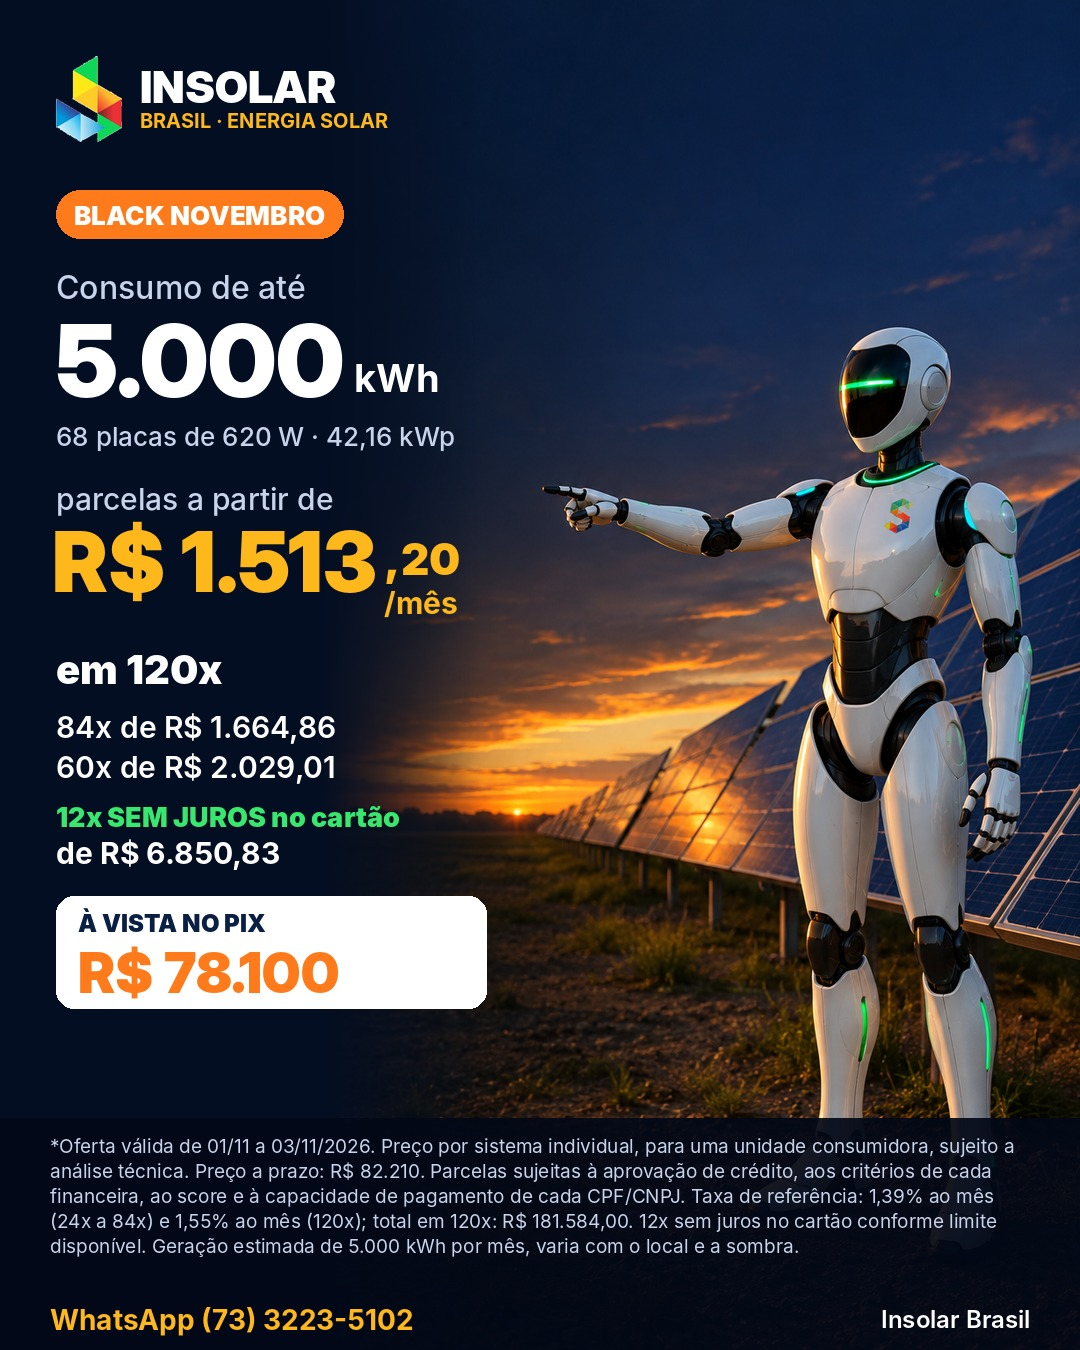
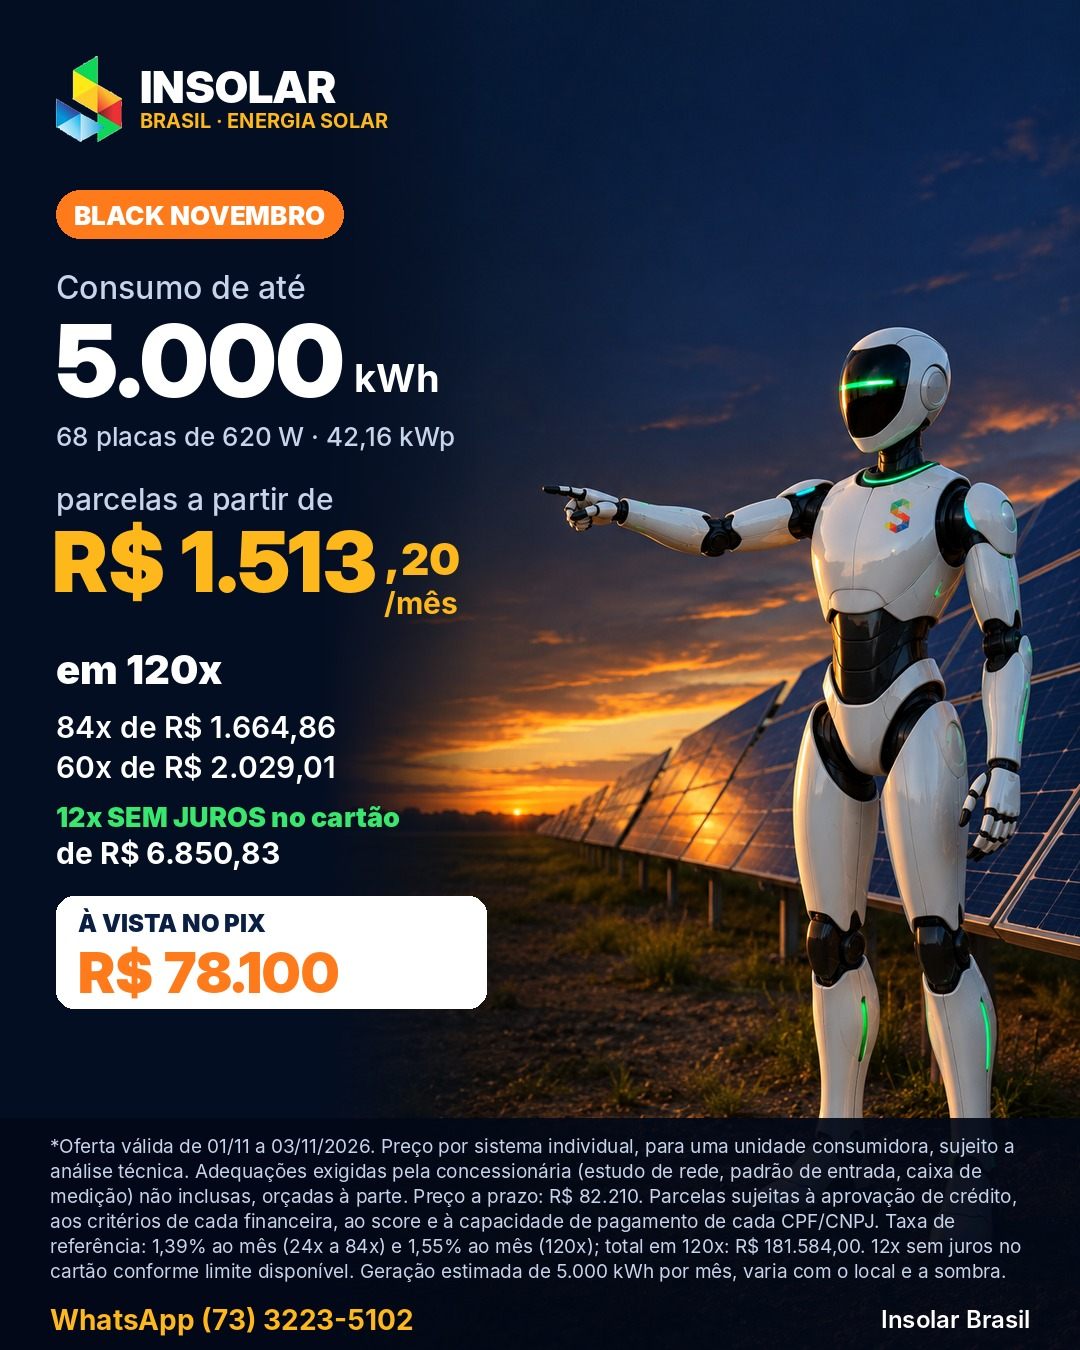
Empresas: adequações da concessionária orçadas à parte

Changed region(s): [[0.0306, 0.84, 0.9472, 0.9644]]

diff --git a/2026-11/precos/empresas_claro.py b/2026-11/precos/empresas_claro.py
@@ -92,7 +92,7 @@ def card(n,k):
     d.rounded_rectangle([X,y,X+430,y+112],radius=18,fill=(11,31,68))
     d.text((X+22,y+12),'À VISTA NO PIX',font=F('Inter-Black.otf',24),fill=(255,255,255))
     d.text((X+22,y+42),f"R$ {brl(k['pix'],False)}",font=F('InterDisplay-Black.otf',56),fill=(255,184,28))
-    legal=(f"*Oferta válida de {VAL}. Preço por sistema individual, para uma unidade consumidora, sujeito a análise técnica. "
+    legal=(f"*Oferta válida de {VAL}. Preço por sistema individual, para uma unidade consumidora, sujeito a análise técnica. Adequações exigidas pela concessionária (estudo de rede, padrão de entrada, caixa de medição) não inclusas, orçadas à parte. "
            f"Preço a prazo: R$ {brl(k['tab'],False)}. ")
     if k.get('p120'):
         legal+=(f"Parcelas sujeitas à aprovação de crédito, aos critérios de cada financeira, ao score e à capacidade de pagamento de cada CPF/CNPJ. "
@@ -113,7 +113,7 @@ def capa():
     d.text((X,760),'Comércio, indústria,',font=F('Inter-Black.otf',27),fill=GREEN)
     d.text((X,800),'fazenda e condomínio',font=F('Inter-Bold.otf',27),fill=GREEN)
     d.text((X,880),'Veja a sua usina  →',font=F('Inter-Black.otf',40),fill=WHITE)
-    rodape(c,f'*Oferta válida de {VAL}. R$ 935,79/mês: sistema de 3.000 kWh em 120x, taxa de referência 1,55% ao mês, total a prazo R$ 112.294,80; preço à vista no Pix R$ 48.300. Parcelas sujeitas à aprovação de crédito, aos critérios de cada financeira, ao score e à capacidade de pagamento de cada CPF/CNPJ. Preço por sistema individual, sujeito a análise técnica.')
+    rodape(c,f'*Oferta válida de {VAL}. R$ 935,79/mês: sistema de 3.000 kWh em 120x, taxa de referência 1,55% ao mês, total a prazo R$ 112.294,80; preço à vista no Pix R$ 48.300. Parcelas sujeitas à aprovação de crédito, aos critérios de cada financeira, ao score e à capacidade de pagamento de cada CPF/CNPJ. Preço por sistema individual, sujeito a análise técnica. Adequações exigidas pela concessionária orçadas à parte.')
     c.save('out/empresas_claro/00_capa.jpg',quality=92)
 
 def final():

diff --git a/2026-11/precos/empresas.py b/2026-11/precos/empresas.py
@@ -92,7 +92,7 @@ def card(n,k):
     d.rounded_rectangle([X,y,X+430,y+112],radius=18,fill=(255,255,255))
     d.text((X+22,y+12),'À VISTA NO PIX',font=F('Inter-Black.otf',24),fill=(11,31,68))
     d.text((X+22,y+42),f"R$ {brl(k['pix'],False)}",font=F('InterDisplay-Black.otf',56),fill=ORANGE)
-    legal=(f"*Oferta válida de {VAL}. Preço por sistema individual, para uma unidade consumidora, sujeito a análise técnica. "
+    legal=(f"*Oferta válida de {VAL}. Preço por sistema individual, para uma unidade consumidora, sujeito a análise técnica. Adequações exigidas pela concessionária (estudo de rede, padrão de entrada, caixa de medição) não inclusas, orçadas à parte. "
            f"Preço a prazo: R$ {brl(k['tab'],False)}. ")
     if k.get('p120'):
         legal+=(f"Parcelas sujeitas à aprovação de crédito, aos critérios de cada financeira, ao score e à capacidade de pagamento de cada CPF/CNPJ. "
@@ -113,7 +113,7 @@ def capa():
     d.text((X,760),'Comércio, indústria,',font=F('Inter-Black.otf',27),fill=GREEN)
     d.text((X,800),'fazenda e condomínio',font=F('Inter-Bold.otf',27),fill=GREEN)
     d.text((X,880),'Veja a sua usina  →',font=F('Inter-Black.otf',40),fill=WHITE)
-    rodape(c,f'*Oferta válida de {VAL}. R$ 935,79/mês: sistema de 3.000 kWh em 120x, taxa de referência 1,55% ao mês, total a prazo R$ 112.294,80; preço à vista no Pix R$ 48.300. Parcelas sujeitas à aprovação de crédito, aos critérios de cada financeira, ao score e à capacidade de pagamento de cada CPF/CNPJ. Preço por sistema individual, sujeito a análise técnica.')
+    rodape(c,f'*Oferta válida de {VAL}. R$ 935,79/mês: sistema de 3.000 kWh em 120x, taxa de referência 1,55% ao mês, total a prazo R$ 112.294,80; preço à vista no Pix R$ 48.300. Parcelas sujeitas à aprovação de crédito, aos critérios de cada financeira, ao score e à capacidade de pagamento de cada CPF/CNPJ. Preço por sistema individual, sujeito a análise técnica. Adequações exigidas pela concessionária orçadas à parte.')
     c.save('out/empresas/00_capa.jpg',quality=92)
 
 def final():
